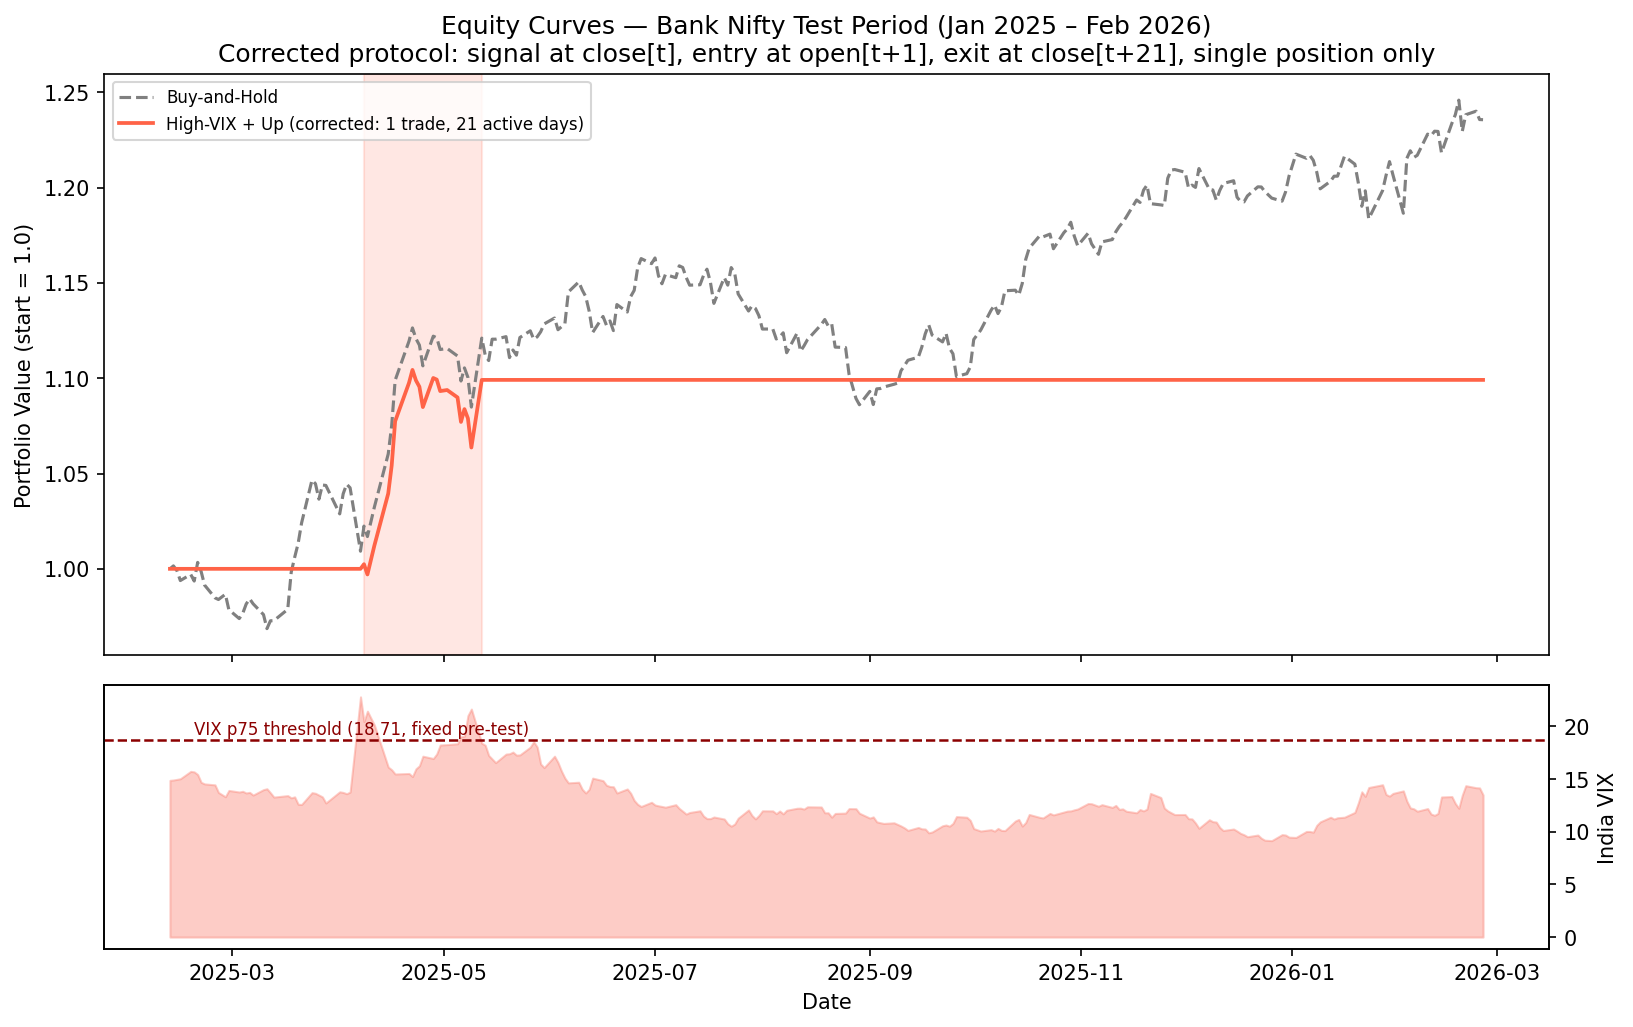
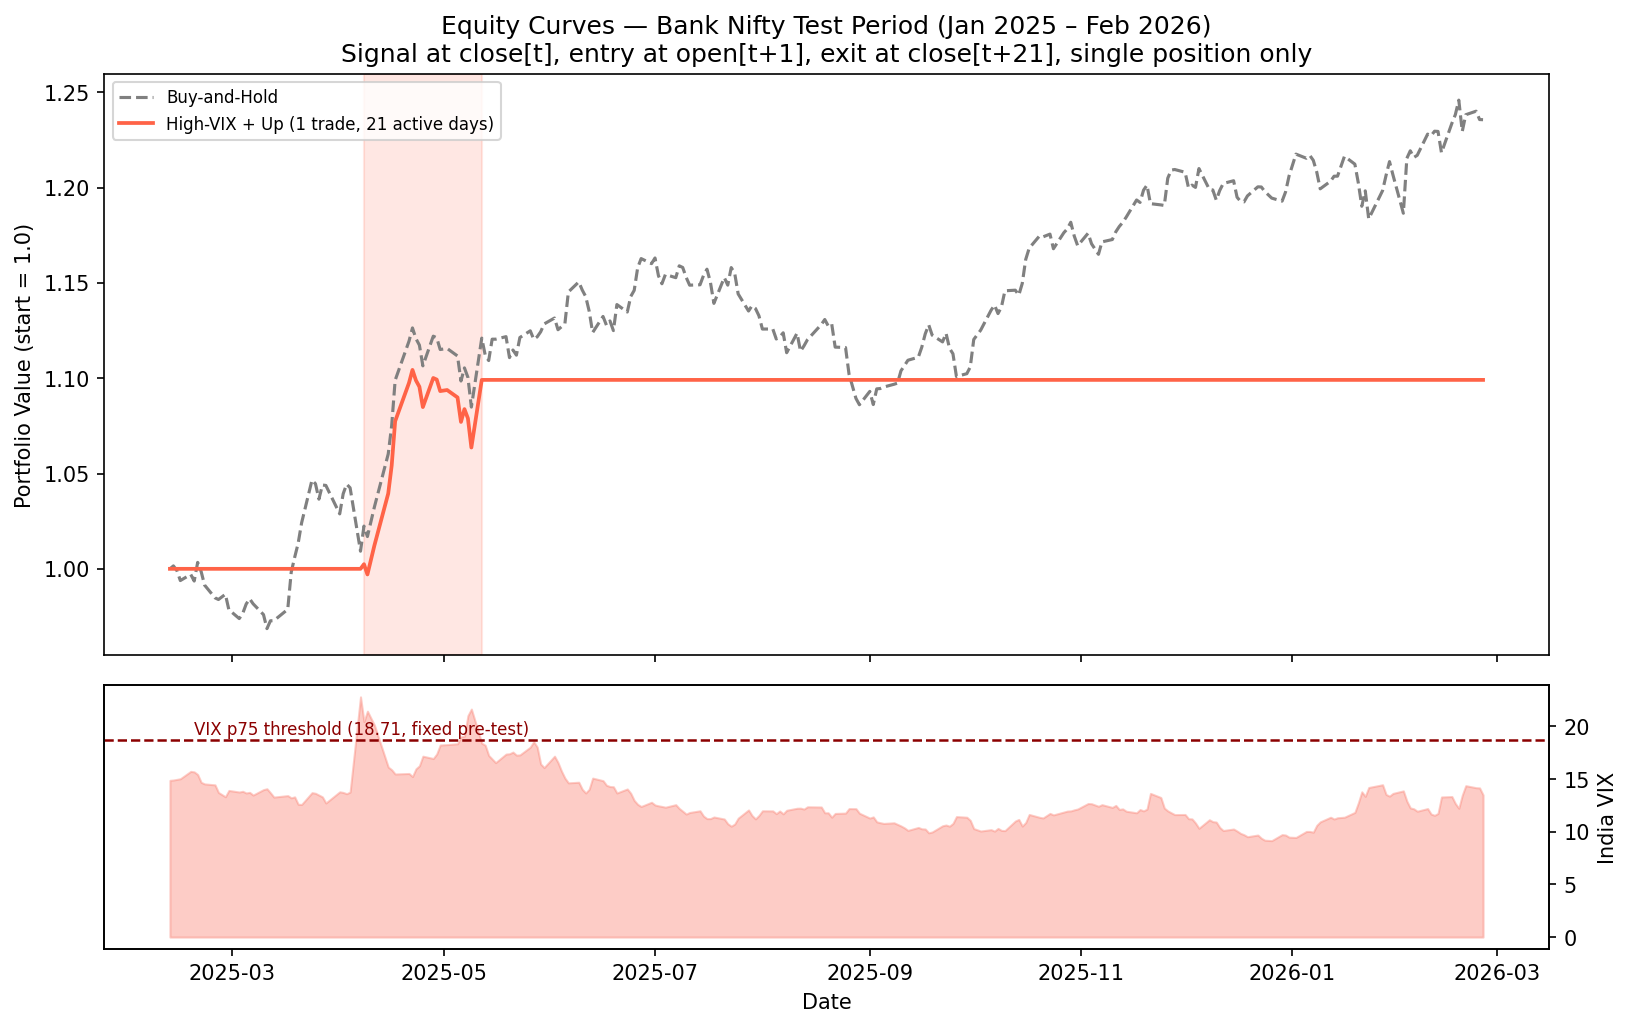
Remove 'corrected/CORRECTED' naming and wording throughout: rename NB-R09 and 4 results files to drop the _CORRECTED suffix, update all cross-references, and reword remaining prose that implied a revision history

Changed region(s): [[0.1249, 0.0312, 0.8745, 0.0623], [0.1874, 0.0935, 0.3435, 0.1246]]

diff --git a/README.md b/README.md
@@ -10,34 +10,34 @@ defined by a pre-test-fixed India VIX threshold.
 ## What this repository shows
 
 Reported effects in regime-conditional financial machine learning are
-frequently sensitive to two silent methodological choices: how the regime
-threshold is calibrated, and how overlapping-horizon labels are handled in
-significance testing. This repository documents both problems being found
-and fixed in a real analysis, and reports the corrected result honestly even
-where it weakens the original hypothesis:
+frequently sensitive to two easily overlooked methodological choices: how
+the regime threshold is calibrated, and how overlapping-horizon labels are
+handled in significance testing. This pipeline treats both as first-class
+design decisions and quantifies their impact directly:
 
-- **Look-ahead bias in the regime threshold.** Defining "High-VIX" using the
-  75th percentile of the *test-period* VIX distribution (not knowable in
-  real time) versus a threshold calibrated from **pre-test data only**
-  changes the High-VIX sample from 56 days to 8 days, and changes the
-  measured effect from apparently strong to statistically inconclusive.
+- **Threshold calibration.** Defining "High-VIX" using the 75th percentile
+  of the *test-period* VIX distribution (not knowable in real time) versus a
+  threshold calibrated from **pre-test data only** changes the High-VIX
+  sample from 56 days to 8 days, and changes the measured effect from
+  apparently strong to statistically inconclusive — a concrete illustration
+  of how much a single calibration choice can drive an apparent result.
 - **Dependence in overlapping labels.** The prediction target is a 21-day-
   ahead direction label, so consecutive observations share up to 20
   overlapping future days. Naive significance testing on this kind of data
-  inflates apparent significance; a non-overlapping Fisher test, block
-  bootstrap, and block-permutation test (see `notebooks/NB-R04`) tell a
-  more conservative story.
+  inflates apparent significance; this pipeline instead uses a
+  non-overlapping Fisher test, block bootstrap, and block-permutation test
+  (see `notebooks/NB-R04`) throughout.
 - **Generalizability.** A year-by-year walk-forward evaluation
   (`notebooks/NB-R05`) shows the High-VIX accuracy advantage holding in only
   one of six independently evaluated years — direct evidence that a result
   measured on a single test window can be specific to that window's
   particular stress episode rather than a general, repeatable effect.
 
-The honest conclusion of this pipeline, after every correction, is that the
-data support a **conditional, sample-constrained pattern** worth further
-investigation — not an established, generalizable regime effect or a
-validated trading edge. The repository is structured so that every number in
-that conclusion is traceable to a specific, reproducible computation.
+The conclusion supported by this analysis is that the data show a
+**conditional, sample-constrained pattern** worth further investigation —
+not an established, generalizable regime effect or a validated trading
+edge. The repository is structured so that every number behind that
+conclusion is traceable to a specific, reproducible computation.
 
 ## Repository structure
 
@@ -62,8 +62,8 @@ that conclusion is traceable to a specific, reproducible computation.
 ## Reproducing the analysis
 
 ```bash
-git clone <this-repo-url>
-cd India-VIX-Major-Revision
+git clone <repository-url> bank-nifty-vix-regime
+cd bank-nifty-vix-regime
 pip install -r requirements.txt
 ```
 

diff --git a/notebooks/README.md b/notebooks/README.md
@@ -18,11 +18,11 @@ notebooks are numbered in the order they must be run — each depends on artifac
 | 06 | `NB-R06_baseline_comparison.ipynb` | Regime-stratified comparison against simple baselines |
 | 07 | `NB-R07_shap_regime_analysis.ipynb` | SHAP feature importance, computed separately per regime |
 | 08 | `NB-R08_ablation_studies.ipynb` | Per-component ablation of the stacking ensemble |
-| 09 | `NB-R09_corrected_trading_simulation.ipynb` | Deployable trading-rule simulation with explicit execution and Sharpe conventions |
+| 09 | `NB-R09_trading_simulation.ipynb` | Deployable trading-rule simulation with explicit execution and Sharpe conventions |
 | 10 | `NB-R10_results_compilation.ipynb` | Compile all outputs into summary tables |
 | 11 | `NB-R11_garch_and_threshold_extras.ipynb` | GARCH(1,1) regime comparison; extended threshold sensitivity |
 | 12 | `NB-R12_train_1d_5d_models.ipynb` | Train real 1-day and 5-day stacking ensembles (same methodology as NB-R03) |
-| 13 | `NB-R13_regenerate_figures.ipynb` | Regenerate figures directly from corrected result files (depends on NB-R12's output) |
+| 13 | `NB-R13_regenerate_figures.ipynb` | Regenerate figures directly from pipeline result files (depends on NB-R12's output) |
 
 ## Reproducing the pipeline
 
@@ -51,7 +51,7 @@ kept only for audit-trail transparency.
 - Every notebook's markdown documents its exact inputs, outputs, and the specific
   methodological issue it addresses, where relevant.
 - NB-R13 depends on NB-R12's output: its regime-accuracy and AUC figures load the
-  1-day/5-day results directly from `results/horizon_1d_5d_results_CORRECTED.csv`
+  1-day/5-day results directly from `results/horizon_1d_5d_results.csv`
   and `data/processed/test_predictions_{1d,5d}.csv` rather than using hardcoded
   values, so run NB-R12 before NB-R13 (or before rerunning NB-R13) if those files
   don't yet exist.
